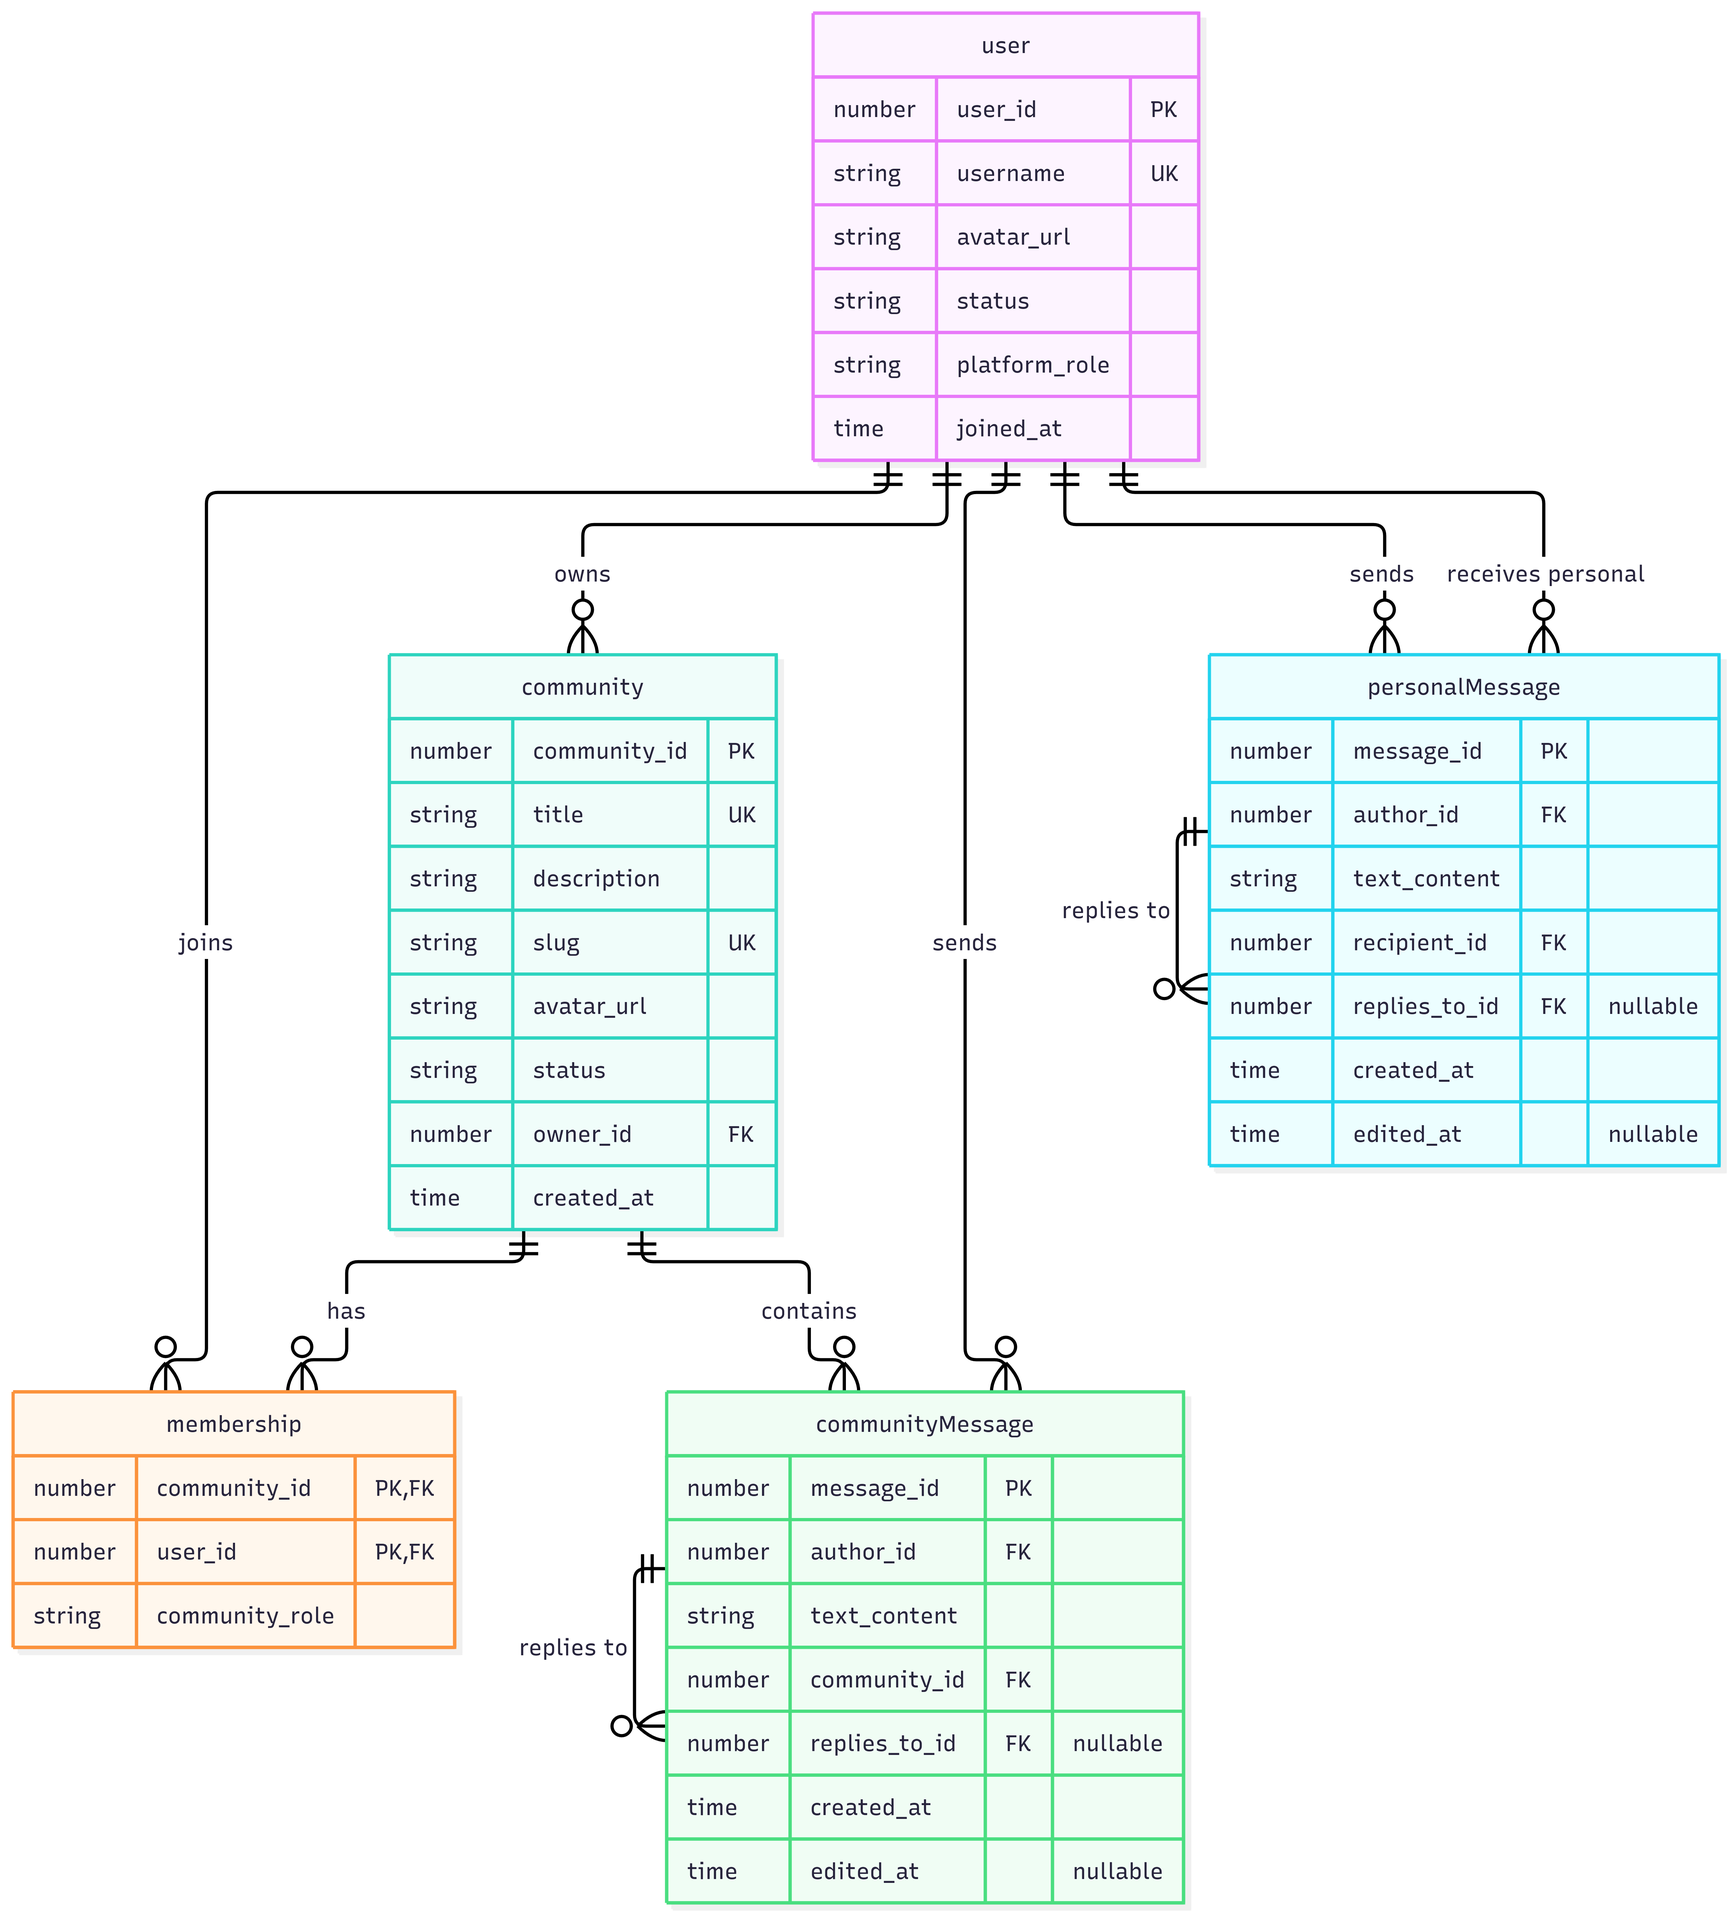
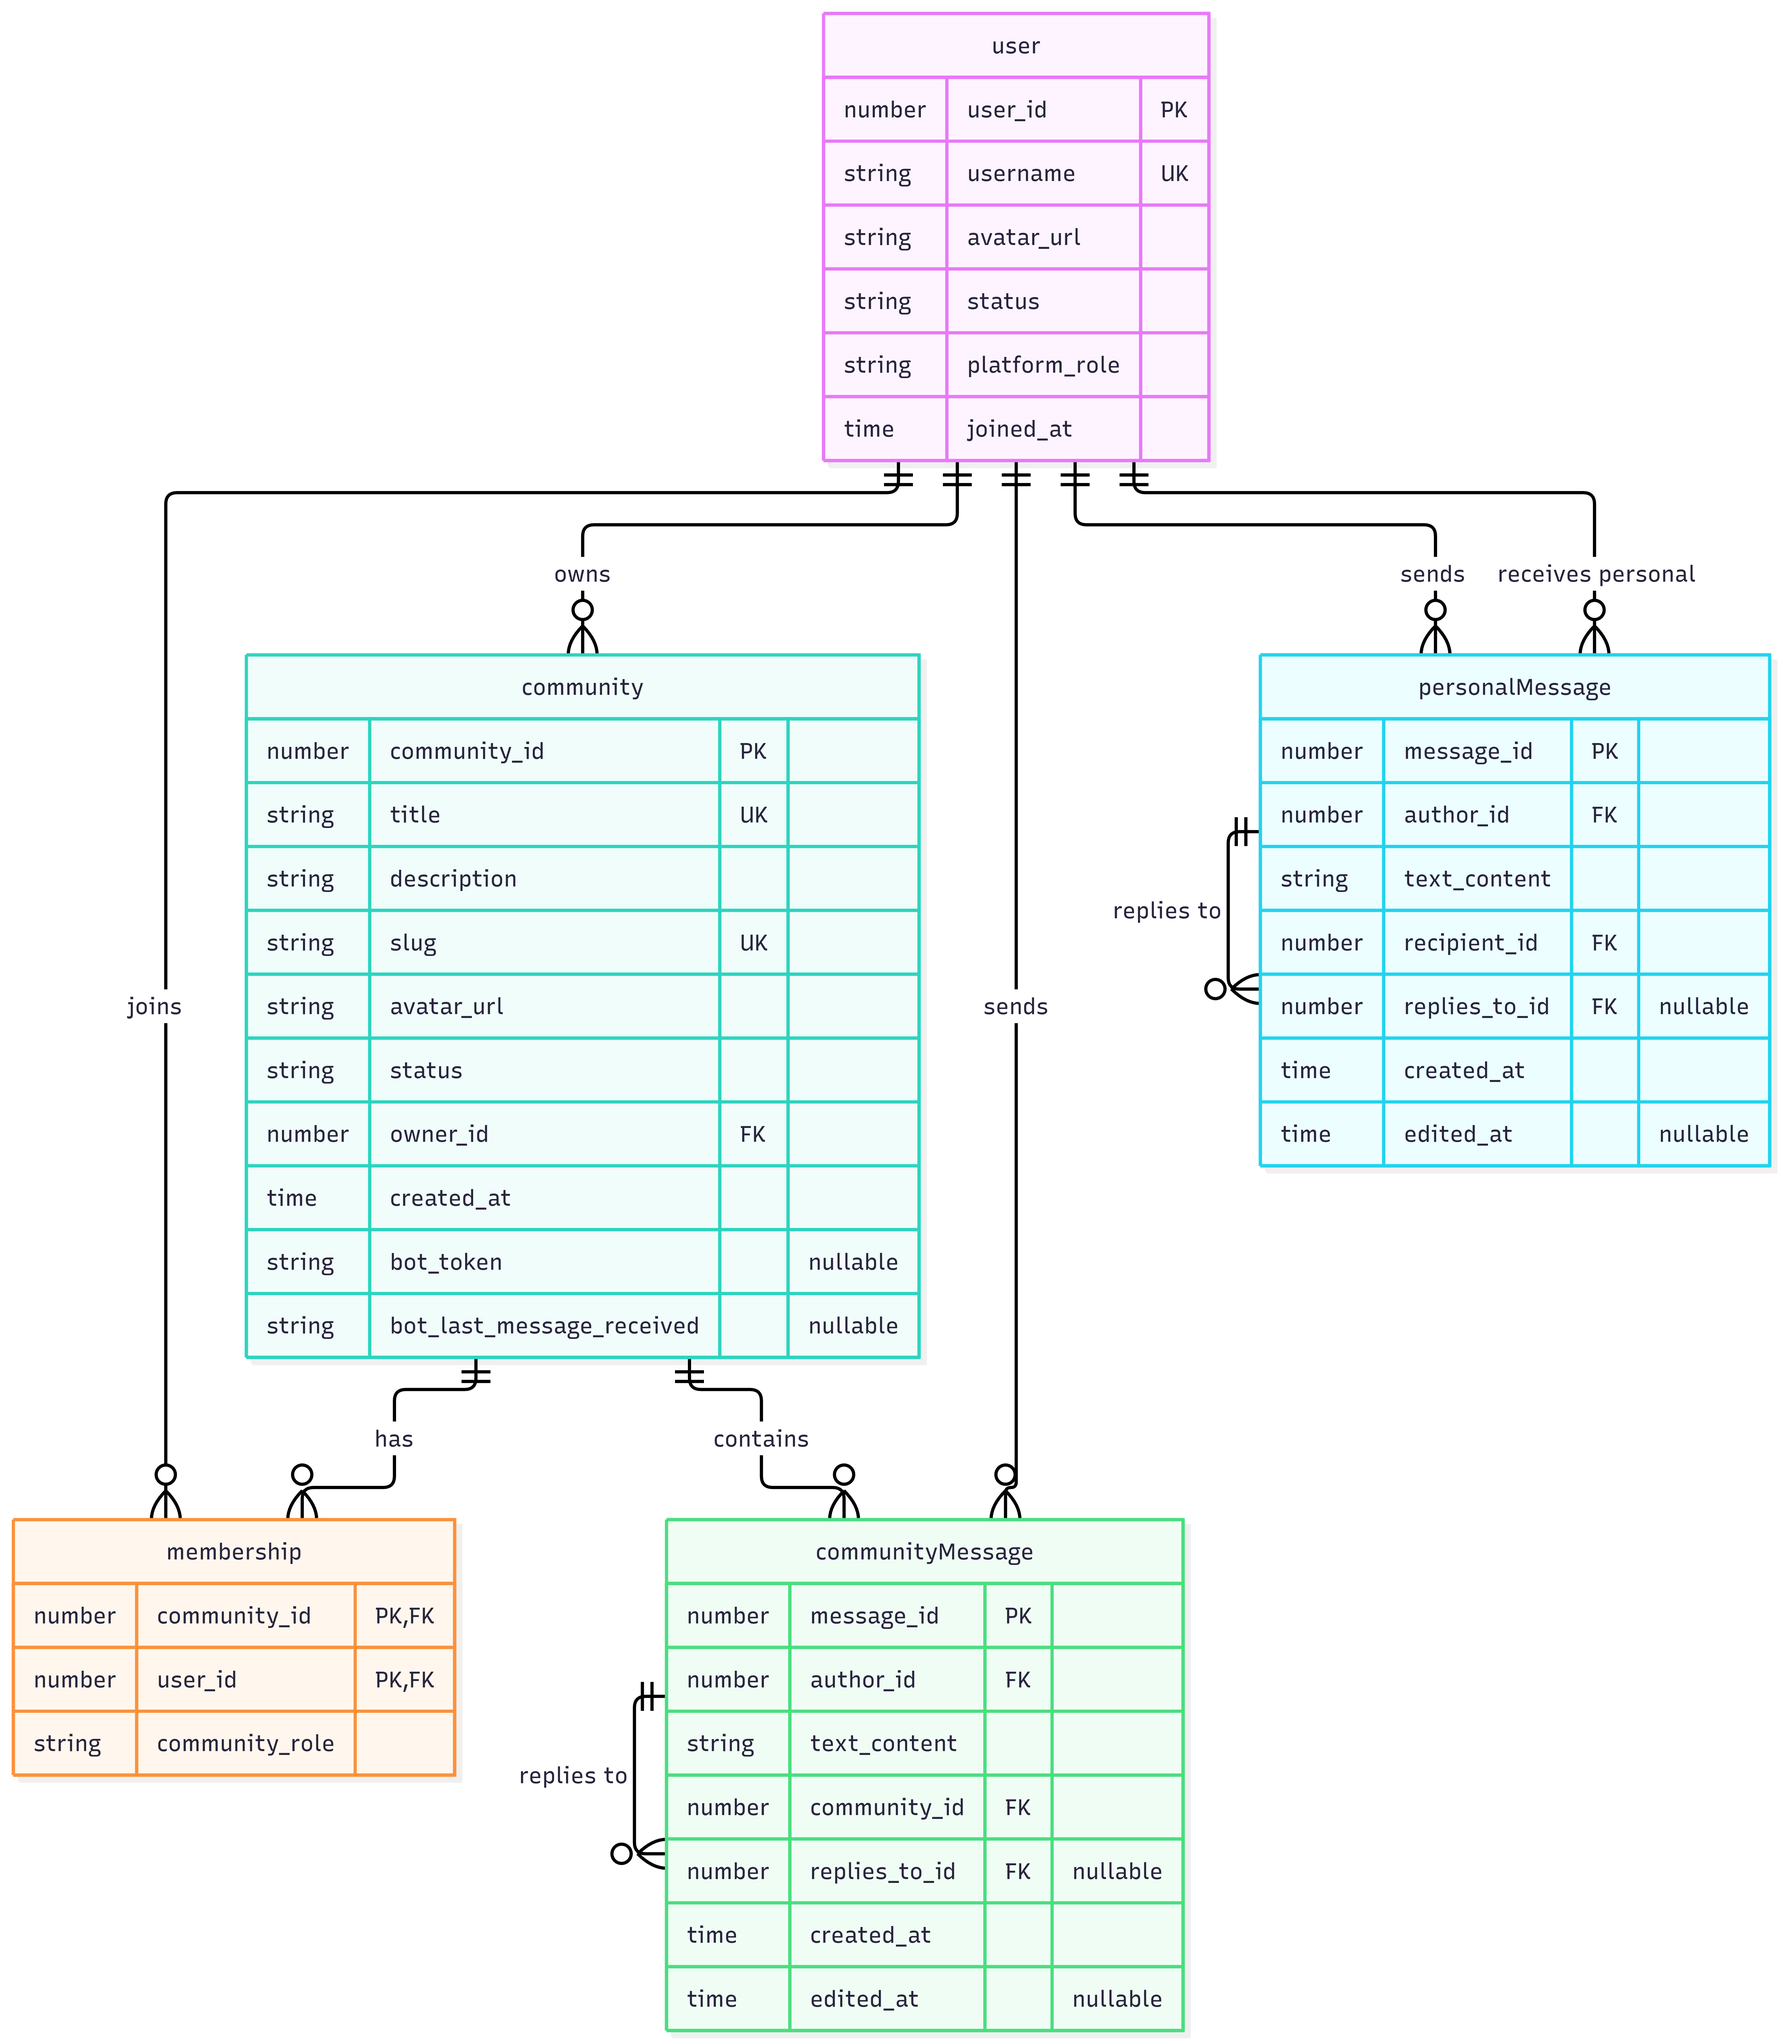
doc(adr): model update with described adr, added bot attributes to community entity

diff --git a/adr/1792011921-bot-data-presentation.md b/adr/1792011921-bot-data-presentation.md
@@ -1,0 +1,71 @@
+---
+parent: Decisions
+title: Bot Data Presentation
+
+status: "accepted"
+decision-makers: Illia Diadenchuk (@dadencukillia)
+---
+# Представлення бота сутністями чи атрибутами в діаграмі
+
+## Контекст та проблема
+
+Було вирішено представити окремий функціонал бота та визначити його як окремим актором.
+Проте на даний момент бот ніяк не представлений у моделі, але все ж має власні дані (токен доступу та останні отримані оновлення).
+
+## Варіанти вирішення
+
+* Розширити сутність `community` новими атрибутами.
+* Створити окрему сутність `bot`.
+* Розширити сутність `user` та додати йому нову роль.
+
+## Вирішення проблеми
+
+Вибраний варіант: Розширити сутність `community` новими атрибутами.
+
+## Переваги та недоліки варіантів
+
+### Розширити сутність `community` новими атрибутами.
+
+Спосіб пропонує додати для кожної спільноти необов'язковий атрибут `bot_token` (хеш) та
+`bot_last_message_received`, який буде містити ID останнього отриманого ботом повідомлення,
+а при кожній спробі отримати нові повідомлення спільноти будуть віддаватися лише ті повідомлення
+ID якого більше `bot_last_message_received`. Звісно, `bot_last_message_received` після запитів на оновлення
+буде оновлюватися.
+Спосіб є можливим за умови якщо зумовити, що кожна спільнота матиме одного або нуль ботів.
+
+* Добре, тому що не потребує нових таблиць чи типів.
+* Добре, бо неявно обмежує спільноти тільки одним ботом.
+* Добре, бо не потребує FK.
+* Добре, бо не потребує значних змін моделі.
+* Добре, бо токен можна замінити чи відкликати, не чіпаючи спільноту.
+* Погане, бо `bot_last_message_received` більше описує бота, ніж саму спільноту (але не є порушенням 3NF).
+
+### Створити окрему сутність `bot`.
+
+Спосіб пропонує сутність `bot` з атрибутами `bot_id` (PK), `community_id`,
+`bot_token` (хеш) і `bot_last_message_received`. Зв'язок `community` один-до-нуля-або-одного
+забезпечується тим, що атрибут `community_id` є унікальним.
+
+* Добре, тому що дані бота не змішуються з даними спільноти, кожна сутність відповідає за одне.
+* Добре, бо повністю слідує 3NF.
+* Добре, бо токен можна замінити чи відкликати, не чіпаючи спільноту.
+* Добре, бо обмеження до одного бота знімається прибиранням унікальності.
+* Погане, бо з'являється нова сутність і зв'язок, тобто найбільша правка моделі першої лабораторної.
+* Погане, бо потребує FK та окремого правила "не більше одного бота" у spec.
+
+### Розширити сутність `user` та додати йому нову роль.
+
+Спосіб пропонує додати значення `bot` до `platform_role`, а бот
+діє як звичайний користувач у спільнотах.
+
+* Добре, тому що не потребує нової сутності, а `username`, `avatar_url`, `status` перевикористовуються.
+* Добре, бо бота можна заблокувати через `status` як і людину.
+* Погане, бо змішує людину й програму в одній сутності.
+* Погане, бо токен і `bot_last_message_received` усе одно треба десь зберігати, швидше за все у `membership`.
+* Погане, бо `platform_role` тепер описує і повноваження (адмін, модератор), і тип акаунта (бот).
+* Погане, бо якщо власник захоче додати бота у спільноту, то йому треба окремий акаунт (адже запити з `user` представляють саме акаунти).
+* Погане, бо є найскорпульознішим рішенням.
+
+## Наслідки
+
+Було оновлено модель та додано нові необов'язкові атрибути у сутність `community`.

diff --git a/spec.md b/spec.md
@@ -21,7 +21,9 @@
 - **Аватарка** (avatar_url) спільноти також може допомогти краще сприймати її айдентику.
 - Кожна спільнота є створена кимось, отже у неї є **власник** (owner_id).
 - Діяльність спільноти може бути призупинена адміністраторами платформи, її **статус** (status) є окремим атрибутом.
-- Спільноти мають свій **час створення** (created_at)
+- Спільноти мають свій **час створення** (created_at).
+- Кожна спільнота може мати свого бота модерації і зберігає його **токен** (bot_token).
+- Кожна спільнота запам'ятовує **останє отримане ботом ID повідомлення** (bot_last_message_received).
 
 ### Повідомлення (`personal message`, `community message`)
 
@@ -81,5 +83,4 @@
 - Містить більше двох акторів (мінімум 1 користувацький та мінімум 1 зовнішній)
 - Передбачено сценарії взаємодії користувачів та ботів з платформою.
 - Спланувано функціонал, що забезпечує позитивні сценарії взаємодії.
-- Попереджено негативні сценарії.
-
+- Попереджено вийнятки у сценаріях.
